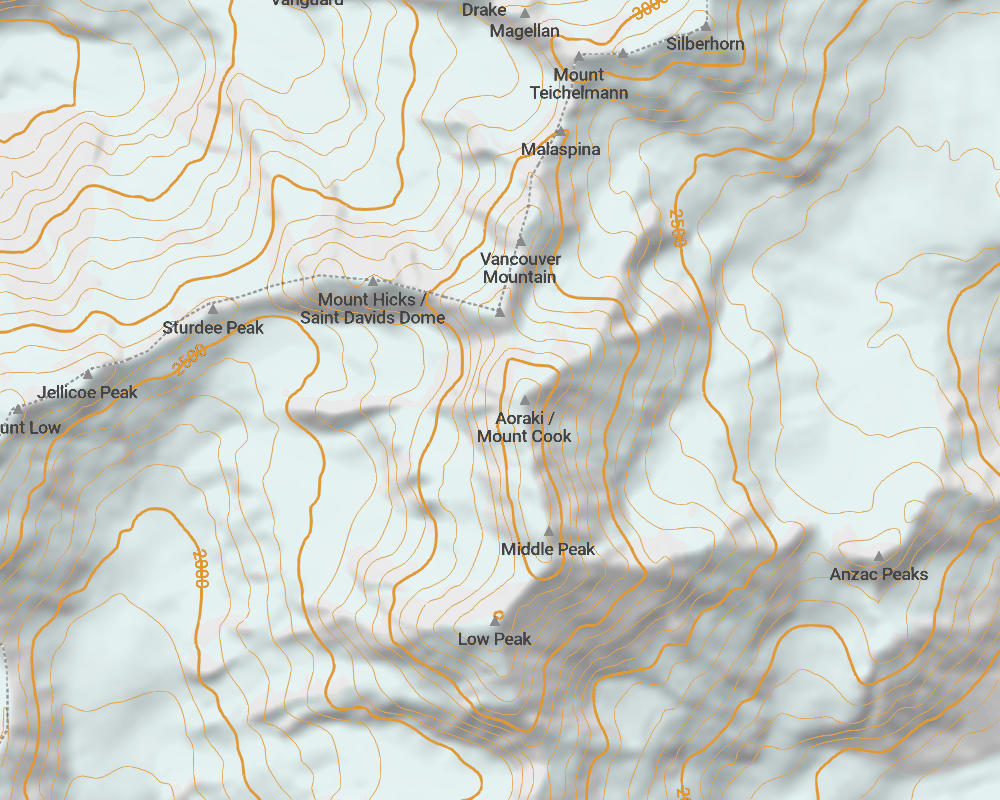
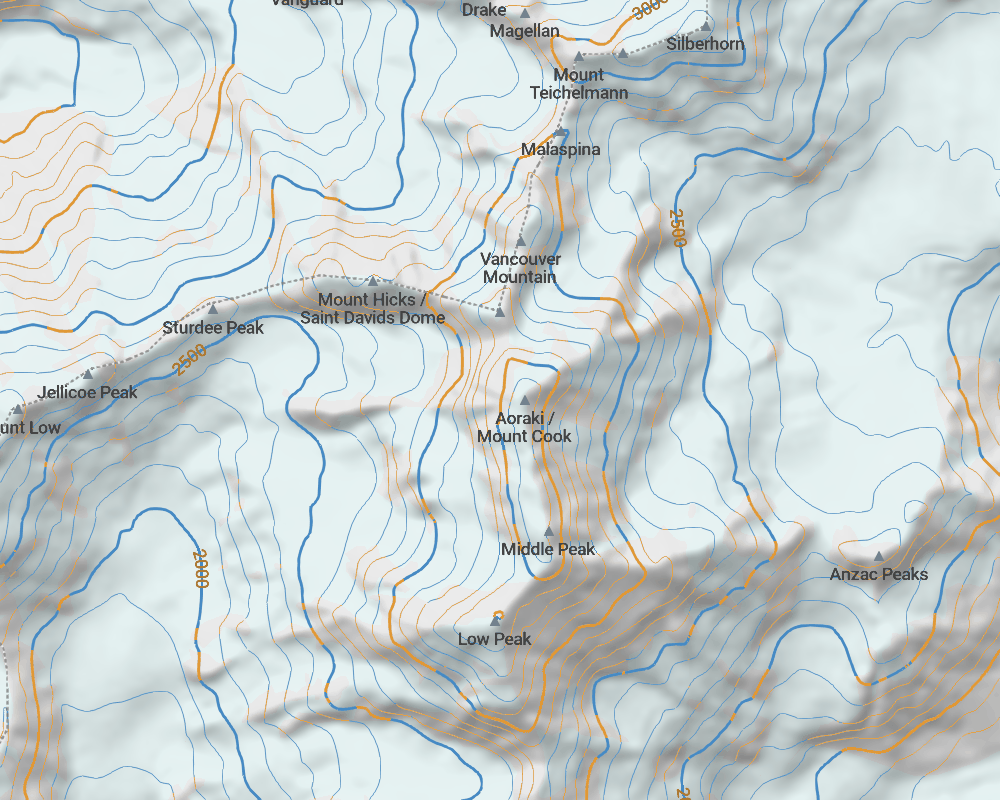
[drape] Draw isolines blue on glaciers
Hold isolines back until a tile has been read, rasterize its glaciers into a grid, then split isolines into runs on and off the ice. This matches LINZ topo maps. Dark styles are unchanged.

diff --git a/libs/drape_frontend/glacier_mask.cpp b/libs/drape_frontend/glacier_mask.cpp
@@ -1,0 +1,101 @@
+#include "drape_frontend/glacier_mask.hpp"
+
+#include <algorithm>
+#include <cmath>
+#include <limits>
+
+namespace df
+{
+namespace
+{
+// A tile is a few hundred pixels wide, so a cell is about a pixel.
+int constexpr kGridSize = 512;
+}  // namespace
+
+GlacierMask::GlacierMask(m2::RectD const & tileRect)
+  : m_tileRect(tileRect)
+  , m_cellSize(tileRect.SizeX() / kGridSize)
+  , m_cells(kGridSize * kGridSize, 0)
+{}
+
+void GlacierMask::AddTriangle(m2::PointD const & p1, m2::PointD const & p2, m2::PointD const & p3)
+{
+  auto const toGrid = [this](m2::PointD const & p)
+  { return m2::PointD((p.x - m_tileRect.minX()) / m_cellSize, (p.y - m_tileRect.minY()) / m_cellSize); };
+  m2::PointD const points[] = {toGrid(p1), toGrid(p2), toGrid(p3)};
+
+  auto const [minY, maxY] = std::minmax({points[0].y, points[1].y, points[2].y});
+  int const firstRow = std::max(0, static_cast<int>(std::floor(minY)));
+  int const lastRow = std::min(kGridSize - 1, static_cast<int>(std::ceil(maxY)));
+
+  for (int row = firstRow; row <= lastRow; ++row)
+  {
+    double const y = row + 0.5;
+    double minX = std::numeric_limits<double>::max();
+    double maxX = std::numeric_limits<double>::lowest();
+    for (size_t i = 0; i < 3; ++i)
+    {
+      auto const & a = points[i];
+      auto const & b = points[(i + 1) % 3];
+      if ((a.y <= y) == (b.y <= y))
+        continue;
+      double const x = a.x + (y - a.y) / (b.y - a.y) * (b.x - a.x);
+      minX = std::min(minX, x);
+      maxX = std::max(maxX, x);
+    }
+
+    if (minX > maxX)
+      continue;
+
+    int const firstColumn = std::max(0, static_cast<int>(std::floor(minX)));
+    int const lastColumn = std::min(kGridSize - 1, static_cast<int>(std::floor(maxX)));
+    if (firstColumn <= lastColumn)
+      std::fill_n(m_cells.begin() + row * kGridSize + firstColumn, lastColumn - firstColumn + 1, uint8_t{1});
+  }
+}
+
+bool GlacierMask::IsInside(m2::PointD const & point) const
+{
+  int const column = static_cast<int>((point.x - m_tileRect.minX()) / m_cellSize);
+  int const row = static_cast<int>((point.y - m_tileRect.minY()) / m_cellSize);
+  if (column < 0 || row < 0 || column >= kGridSize || row >= kGridSize)
+    return false;
+  return m_cells[row * kGridSize + column] != 0;
+}
+
+GlacierMask::Runs GlacierMask::Split(m2::SharedSpline const & spline) const
+{
+  Runs runs;
+  auto const & path = spline->GetPath();
+  if (path.size() < 2)
+    return runs;
+
+  std::vector<m2::PointD> run = {path.front()};
+  bool onGlacier = IsInside(path.front());
+
+  auto const addPoint = [&](m2::PointD const & point)
+  {
+    bool const inside = IsInside(point);
+    run.push_back(point);
+    if (inside == onGlacier)
+      return;
+
+    runs.emplace_back(m2::SharedSpline(std::move(run)), onGlacier);
+    run = {point};
+    onGlacier = inside;
+  };
+
+  for (size_t i = 1; i < path.size(); ++i)
+  {
+    auto const & from = path[i - 1];
+    auto const & to = path[i];
+    int const steps = std::max(1, static_cast<int>(std::ceil(from.Length(to) / m_cellSize)));
+    for (int step = 1; step <= steps; ++step)
+      addPoint(from + (to - from) * (static_cast<double>(step) / steps));
+  }
+
+  if (run.size() > 1)
+    runs.emplace_back(m2::SharedSpline(std::move(run)), onGlacier);
+  return runs;
+}
+}  // namespace df

diff --git a/libs/drape_frontend/rule_drawer.cpp b/libs/drape_frontend/rule_drawer.cpp
@@ -2,18 +2,21 @@
 
 #include "drape_frontend/apply_feature_functors.hpp"
 #include "drape_frontend/engine_context.hpp"
+#include "drape_frontend/glacier_mask.hpp"
 #include "drape_frontend/metaline_manager.hpp"
 #include "drape_frontend/stylist.hpp"
 #include "drape_frontend/tile_key.hpp"
 #include "drape_frontend/traffic_renderer.hpp"
 #include "drape_frontend/visual_params.hpp"
 
+#include "indexer/classificator.hpp"
 #include "indexer/feature.hpp"
 #include "indexer/feature_algo.hpp"
 #include "indexer/feature_data.hpp"
 #include "indexer/feature_decl.hpp"
 #include "indexer/feature_meta.hpp"
 #include "indexer/ftypes_matcher.hpp"
+#include "indexer/map_style_reader.hpp"
 #include "indexer/mwm_set.hpp"
 #include "indexer/scales.hpp"
 
@@ -181,6 +184,7 @@ RuleDrawer::RuleDrawer(TCheckCancelledCallback const & checkCancelled, TIsCountr
   auto const & tileKey = m_context->GetTileKey();
   m_globalRect = tileKey.GetGlobalRect();
   m_zoomLevel = tileKey.m_zoomLevel;
+  m_deferIsolines = m_context->IsolinesEnabled() && !MapStyleIsDark(GetStyleReader().GetCurrentStyle());
 
   auto & vparams = df::VisualParams::Instance();
   int32_t tileSize = vparams.GetTileSize();
@@ -334,10 +338,19 @@ void RuleDrawer::ProcessAreaAndPointStyle(FeatureType & f, Stylist const & s, TI
   }
 }
 
+std::vector<FeatureID> RuleDrawer::TakeDeferredIsolines()
+{
+  m_deferIsolines = false;
+  return std::move(m_deferredIsolines);
+}
+
 void RuleDrawer::ProcessLineStyle(FeatureType & f, Stylist const & s, TInsertShapeFn const & insertShape)
 {
   ApplyLineFeatureGeometry applyGeom(m_context->GetTileKey(), insertShape, f, m_currentScaleGtoP);
   f.ForEachPoint(applyGeom, m_zoomLevel);
+
+  if (m_glacierMask && ftypes::IsIsolineChecker::Instance()(f))
+    applyGeom.SetGlacierMask(m_glacierMask.get());
 
   if (applyGeom.HasGeometry())
     applyGeom.ProcessLineRules(s.m_lineRules);
@@ -453,6 +466,24 @@ void RuleDrawer::operator()(FeatureType & f)
   m2::RectD const limitRect = f.GetLimitRect(m_zoomLevel);
   if (!m_globalRect.IsIntersect(limitRect))
     return;
+
+  if (m_deferIsolines)
+  {
+    if (ftypes::IsIsolineChecker::Instance()(types))
+    {
+      m_deferredIsolines.push_back(f.GetID());
+      return;
+    }
+
+    static uint32_t const kGlacierType = classif().GetTypeByPath({"natural", "glacier"});
+    if (types.Has(kGlacierType) && f.GetGeomType() == feature::GeomType::Area)
+    {
+      if (!m_glacierMask)
+        m_glacierMask = std::make_unique<GlacierMask>(m_globalRect);
+      f.ForEachTriangle([this](m2::PointD const & p1, m2::PointD const & p2, m2::PointD const & p3)
+      { m_glacierMask->AddTriangle(p1, p2, p3); }, m_zoomLevel);
+    }
+  }
 
   auto insertShape = [this](drape_ptr<MapShape> && shape)
   {

diff --git a/libs/drape_frontend/rule_drawer.hpp b/libs/drape_frontend/rule_drawer.hpp
@@ -6,6 +6,7 @@
 
 #include "drape/pointers.hpp"
 
+#include "indexer/feature_decl.hpp"
 #include "indexer/road_shields_parser.hpp"
 
 #include "geometry/rect2d.hpp"
@@ -14,7 +15,9 @@
 #include <array>
 #include <functional>
 #include <map>
+#include <memory>
 #include <string>
+#include <vector>
 
 #include "3party/ankerl/unordered_dense.h"
 
@@ -23,6 +26,7 @@ class FeatureType;
 namespace df
 {
 class EngineContext;
+class GlacierMask;
 class Stylist;
 
 /*
@@ -45,6 +49,10 @@ public:
   ~RuleDrawer();
 
   void operator()(FeatureType & f);
+
+  // Isolines are held back until all glaciers in the tile are known. Read the returned
+  // features with this drawer again to draw them.
+  std::vector<FeatureID> TakeDeferredIsolines();
 
 #ifdef DRAW_TILE_NET
   void DrawTileNet();
@@ -69,6 +77,10 @@ private:
   CustomFeaturesContextPtr m_customFeaturesContext;
   int8_t m_deviceLang;
   ankerl::unordered_dense::set<m2::Spline const *> m_usedMetalines;
+
+  std::unique_ptr<GlacierMask> m_glacierMask;
+  std::vector<FeatureID> m_deferredIsolines;
+  bool m_deferIsolines;
 
   m2::RectD m_globalRect;
   double m_currentScaleGtoP;

diff --git a/libs/drape_frontend/apply_feature_functors.cpp b/libs/drape_frontend/apply_feature_functors.cpp
@@ -1,5 +1,6 @@
 #include "drape_frontend/apply_feature_functors.hpp"
 
+#include "drape_frontend/glacier_mask.hpp"
 #include "drape_frontend/area_shape.hpp"
 #include "drape_frontend/color_constants.hpp"
 #include "drape_frontend/colored_symbol_shape.hpp"
@@ -1026,7 +1027,18 @@ void ApplyLineFeatureGeometry::ProcessRule(LineRuleProto const & lineRule)
     params.m_zoomLevel = m_tileKey.m_zoomLevel;
 
     for (auto const & spline : m_clippedSplines)
-      m_insertShape(make_unique_dp<LineShape>(spline, params));
+    {
+      if (m_glacierMask == nullptr)
+      {
+        m_insertShape(make_unique_dp<LineShape>(spline, params));
+        continue;
+      }
+
+      LineViewParams glacierParams = params;
+      glacierParams.m_color = dp::Color(52, 126, 191, params.m_color.GetAlpha());
+      for (auto const & [run, onGlacier] : m_glacierMask->Split(spline))
+        m_insertShape(make_unique_dp<LineShape>(run, onGlacier ? glacierParams : params));
+    }
   }
 }
 

diff --git a/libs/drape_frontend/glacier_mask.hpp b/libs/drape_frontend/glacier_mask.hpp
@@ -1,0 +1,33 @@
+#pragma once
+
+#include "geometry/point2d.hpp"
+#include "geometry/rect2d.hpp"
+#include "geometry/spline.hpp"
+
+#include <cstdint>
+#include <utility>
+#include <vector>
+
+namespace df
+{
+// Grid of the glaciers in a tile, used to colour isolines differently on ice.
+class GlacierMask
+{
+public:
+  using Runs = std::vector<std::pair<m2::SharedSpline, bool /* onGlacier */>>;
+
+  explicit GlacierMask(m2::RectD const & tileRect);
+
+  void AddTriangle(m2::PointD const & p1, m2::PointD const & p2, m2::PointD const & p3);
+
+  // Splits a line into consecutive runs that are all on, or all off, a glacier.
+  Runs Split(m2::SharedSpline const & spline) const;
+
+private:
+  bool IsInside(m2::PointD const & point) const;
+
+  m2::RectD m_tileRect;
+  double m_cellSize;
+  std::vector<uint8_t> m_cells;
+};
+}  // namespace df

diff --git a/libs/drape_frontend/apply_feature_functors.hpp b/libs/drape_frontend/apply_feature_functors.hpp
@@ -139,6 +139,8 @@ private:
   double const m_currentScaleGtoP;
 };
 
+class GlacierMask;
+
 class ApplyLineFeatureGeometry : public BaseApplyFeature
 {
   using TBase = BaseApplyFeature;
@@ -150,6 +152,7 @@ public:
   void operator()(m2::PointD const & point);
   bool HasGeometry() const { return m_spline->IsValid(); }
   void ProcessLineRules(Stylist::LineRulesT const & lineRules);
+  void SetGlacierMask(GlacierMask const * glacierMask) { m_glacierMask = glacierMask; }
 
   std::vector<m2::SharedSpline> const & GetClippedSplines() const { return m_clippedSplines; }
 
@@ -158,6 +161,7 @@ private:
 
   m2::SharedSpline m_spline;
   std::vector<m2::SharedSpline> m_clippedSplines;
+  GlacierMask const * m_glacierMask = nullptr;
   double const m_currentScaleGtoP;
   double const m_minSegmentSqrLength;
   m2::PointD m_lastAddedPoint;

diff --git a/libs/drape_frontend/tile_info.cpp b/libs/drape_frontend/tile_info.cpp
@@ -69,6 +69,10 @@ void TileInfo::ReadFeatures(MapDataProvider const & model)
     RuleDrawer drawer(std::bind(&TileInfo::IsCancelled, this), model.m_isCountryLoadedByName, make_ref(m_context),
                       m_context->GetMapLangIndex());
     model.ReadFeatures(std::bind<void>(std::ref(drawer), _1), m_featureInfo);
+
+    auto const isolines = drawer.TakeDeferredIsolines();
+    if (!isolines.empty())
+      model.ReadFeatures(std::bind<void>(std::ref(drawer), _1), isolines);
 #ifdef DRAW_TILE_NET
     drawer.DrawTileNet();
 #endif

diff --git a/README.md b/README.md
@@ -2,6 +2,7 @@
 > **This is a personal fork of [CoMaps](https://codeberg.org/comaps/comaps) that applies the [LINZ topographic](https://basemaps.linz.govt.nz/) style to the map**, so it looks like a New Zealand topo map. It adds:
 >
 > - The LINZ topographic colours, road casings, track dashes, waterways and contours to the light map styles, including car navigation.
+> - Blue contours where they cross a glacier, as on LINZ topo maps.
 > - An optional offline **Hillshade** layer for New Zealand, in the layers menu. The app downloads a 70 MB bundle from `data.topos.nz` the first time it's enabled. `tools/python/hillshade_bundle.py` builds the bundle from terrain-RGB tiles.
 >
 > Dark mode is unchanged. This fork isn't published as an app.
